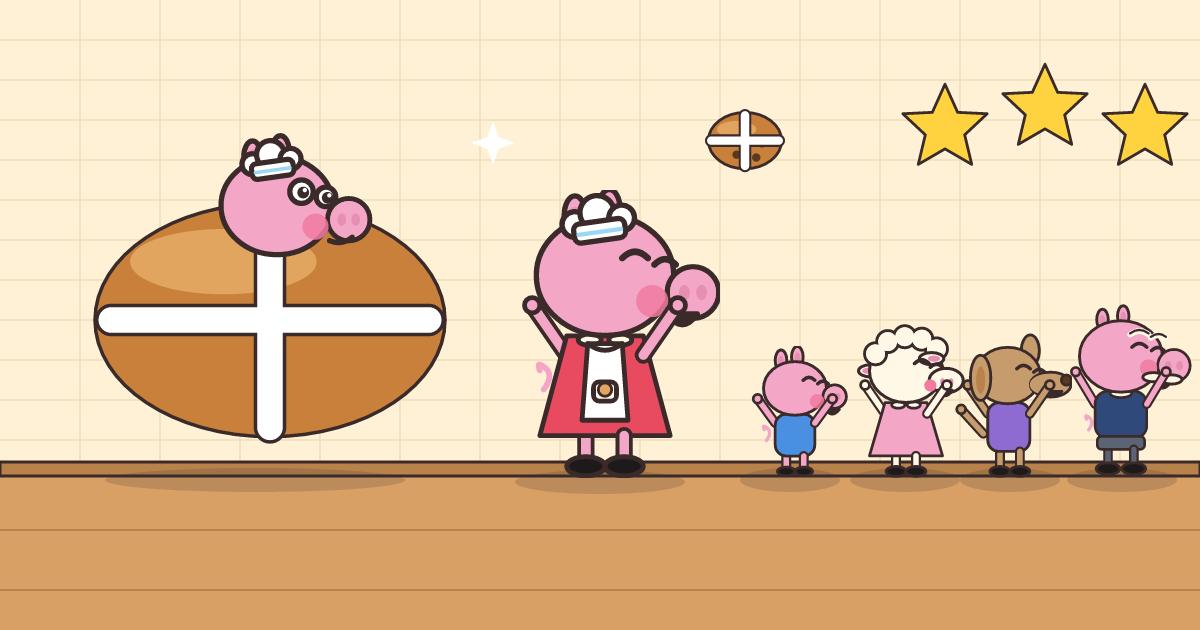
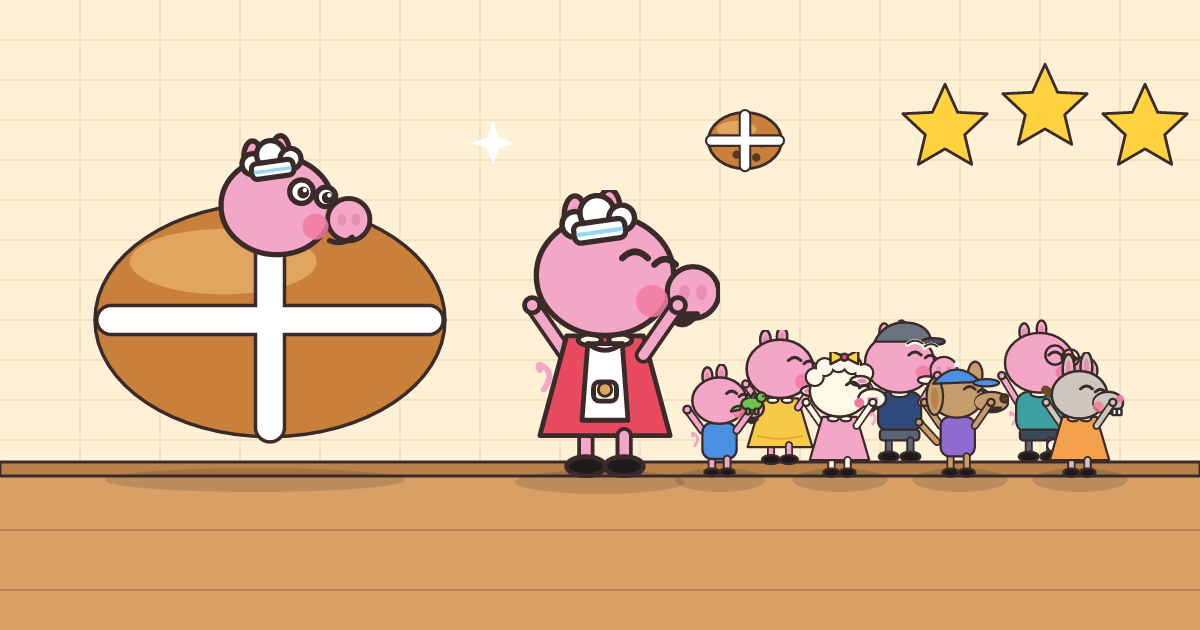
Add Daddy Pig, a happy-day celebration and countdown ticks (#16)
Daddy Pig joins day 7 and Bun Rush. A day where nobody leaves sad ends with bunting and a cheer. The last five seconds of a timed day tick softly, rising in pitch. The link preview now shows all seven customers.

Changed region(s): [[0.555, 0.4825, 1.0, 0.7841]]

diff --git a/game/src/scenes/KitchenScene.ts b/game/src/scenes/KitchenScene.ts
@@ -100,6 +100,7 @@ export class KitchenScene extends Phaser.Scene {
   private hintArrow!: Phaser.GameObjects.Image;
   private walkClock = 0;
   private peppaHappyUntil = 0;
+  private lastTick = -1;
   private peppaShadow!: Phaser.GameObjects.Ellipse;
   private peppaRoot!: Phaser.GameObjects.Container;
   private heldRoot!: Phaser.GameObjects.Container;
@@ -151,6 +152,7 @@ export class KitchenScene extends Phaser.Scene {
     this.ovenSlots = [];
     this.walkClock = 0;
     this.peppaHappyUntil = 0;
+    this.lastTick = -1;
 
     this.add.image(0, 0, 'kitchen-bg').setOrigin(0).setDepth(DEPTH.floor);
     this.drawShading();
@@ -264,7 +266,12 @@ export class KitchenScene extends Phaser.Scene {
       }
       case 'day-over': {
         sfx().setMusicRate(1);
-        const data: DayEndData = { dayId: this.day.config.id, pennies: event.pennies, stars: event.stars };
+        const data: DayEndData = {
+          dayId: this.day.config.id,
+          pennies: event.pennies,
+          stars: event.stars,
+          allHappy: this.day.state.strikes === 0 && this.day.state.served > 0,
+        };
         this.scene.launch(SceneKey.DayEnd, data);
         this.scene.pause();
         break;
@@ -313,6 +320,11 @@ export class KitchenScene extends Phaser.Scene {
     const end = this.day.config.end;
     if (s.remaining !== null) {
       const secs = Math.ceil(s.remaining);
+      // A soft tick for each of the last five seconds, rising in pitch.
+      if (secs <= 5 && secs > 0 && secs !== this.lastTick) {
+        this.lastTick = secs;
+        sfx().play('click', { rate: 1.4 + (5 - secs) * 0.12, volume: 0.5 });
+      }
       this.clockText.setText(`${Math.floor(secs / 60)}:${String(secs % 60).padStart(2, '0')}`);
       this.clockText.setColor(cssColor(secs <= 15 ? COLORS.bad : COLORS.text));
     } else if (end.type === 'customers') {

diff --git a/game/src/scenes/DayEndOverlay.ts b/game/src/scenes/DayEndOverlay.ts
@@ -100,6 +100,15 @@ export class DayEndOverlay extends Phaser.Scene {
       }
     }
 
+    // Nobody left sad: bunting across the card and a cheer.
+    if (data.allHappy && !rush) {
+      this.bunting(CY - 214);
+      this.add
+        .text(CX, CY + 62, 'Everyone went home happy!', { ...text, fontSize: '28px', fontStyle: 'bold', color: cssColor(COLORS.good) })
+        .setOrigin(0.5);
+      this.time.delayedCall(900, () => sfx().play('confetti', { rate: 1.2 }));
+    }
+
     const choices: Choice[] = [];
     if (nextDay && isDayUnlocked(progress, nextDay.id)) {
       const intro: DayIntroData = { dayId: nextDay.id };
@@ -119,6 +128,26 @@ export class DayEndOverlay extends Phaser.Scene {
       const x = CX - rowWidth / 2 + BUTTON_W / 2 + i * (BUTTON_W + BUTTON_GAP);
       new Button(this, x, CY + 140, choice.label, choice.go, { width: BUTTON_W });
     });
+  }
+
+  // A string of little flags in the party colours, swaying once into place.
+  private bunting(y: number): void {
+    const g = this.add.graphics();
+    const colours = [COLORS.peppaRed, COLORS.georgeBlue, COLORS.good, COLORS.bun];
+    const left = CX - 360;
+    const step = 40;
+    g.lineStyle(3, COLORS.outline, 1);
+    g.lineBetween(left, y, left + step * 18, y);
+    for (let i = 0; i < 18; i += 1) {
+      const x = left + i * step + 4;
+      g.fillStyle(colours[i % colours.length], 1);
+      g.fillTriangle(x, y, x + step - 8, y, x + (step - 8) / 2, y + 30);
+      g.strokeTriangle(x, y, x + step - 8, y, x + (step - 8) / 2, y + 30);
+    }
+    if (!reduceMotion()) {
+      g.setY(-40).setAlpha(0);
+      this.tweens.add({ targets: g, y: 0, alpha: 1, duration: 500, delay: 600, ease: 'Back.easeOut' });
+    }
   }
 
   // The kitchen is paused underneath; stop it first, then start the target.

diff --git a/game/src/core/dayConfig.test.ts b/game/src/core/dayConfig.test.ts
@@ -31,7 +31,7 @@ const SPEC: Array<{
   { id: 4, name: 'Choc Chip Day', end: { type: 'time', seconds: 90 }, maxQueue: 2, maxOrderSize: 2, customers: ['george', 'suzy', 'danny'], burn: 4, spawnGap: [5, 9], stars: [8, 12, 16] },
   { id: 5, name: "Grandpa's Big Order", end: { type: 'time', seconds: 100 }, maxQueue: 3, maxOrderSize: 3, customers: ['george', 'suzy', 'danny', 'grandpa'], burn: 4, spawnGap: [4, 8], stars: [10, 15, 20] },
   { id: 6, name: 'Rush Hour', end: { type: 'time', seconds: 90 }, maxQueue: 3, maxOrderSize: 3, customers: ['george', 'suzy', 'danny', 'grandpa', 'mummy', 'rebecca'], burn: 3.5, spawnGap: [2.5, 5], stars: [12, 18, 22] },
-  { id: 7, name: 'The Big Bun Party', end: { type: 'time', seconds: 120 }, maxQueue: 3, maxOrderSize: 3, customers: ['george', 'suzy', 'danny', 'grandpa', 'mummy', 'rebecca'], burn: 3, spawnGap: [3, 6], stars: [16, 24, 30] },
+  { id: 7, name: 'The Big Bun Party', end: { type: 'time', seconds: 120 }, maxQueue: 3, maxOrderSize: 3, customers: ['george', 'suzy', 'danny', 'grandpa', 'mummy', 'rebecca', 'daddy'], burn: 3, spawnGap: [3, 6], stars: [16, 24, 30] },
 ];
 
 describe('day config files', () => {

diff --git a/landing/src/data/customers.ts b/landing/src/data/customers.ts
@@ -1,10 +1,10 @@
 /**
- * The six customers as the landing page introduces them. Names and served
+ * The seven customers as the landing page introduces them. Names and served
  * lines are the spec's (section 5.5); the art paths are the files
  * oinkbuns-internal/tools/art/export.mjs copies into public/art/, and the
  * sizes are the SVG viewBoxes so the img elements reserve the right space.
  */
-export type LandingCustomerId = "george" | "suzy" | "danny" | "grandpa" | "mummy" | "rebecca";
+export type LandingCustomerId = "george" | "suzy" | "danny" | "grandpa" | "mummy" | "rebecca" | "daddy";
 
 export interface LandingCustomer {
   id: LandingCustomerId;
@@ -70,5 +70,14 @@ export const CUSTOMERS: LandingCustomer[] = [
     art: "/art/rebecca-idle.svg",
     width: 110,
     height: 140,
+  },
+  {
+    id: "daddy",
+    name: "Daddy Pig",
+    line: "Ho ho! Delicious!",
+    wants: "Two or three buns, on the party day.",
+    art: "/art/daddy-idle.svg",
+    width: 130,
+    height: 160,
   },
 ];

diff --git a/landing/src/components/customers.tsx b/landing/src/components/customers.tsx
@@ -9,6 +9,7 @@ const STYLE: Record<string, { bg: string; tilt: string; patience: number }> = {
   grandpa: { bg: "bg-grass", tilt: "rotate-1", patience: 3 },
   mummy: { bg: "bg-star", tilt: "-rotate-1", patience: 4 },
   rebecca: { bg: "bg-sky", tilt: "rotate-2", patience: 2 },
+  daddy: { bg: "bg-grass", tilt: "-rotate-2", patience: 4 },
 };
 
 function Hearts({ count }: { count: number }) {
@@ -36,7 +37,7 @@ export function Customers() {
         Meet the customers
       </h2>
       <p className="mb-10 text-center text-lg font-semibold">Everyone wants buns. Some want them faster.</p>
-      <ul className="mx-auto grid max-w-6xl grid-cols-1 gap-8 sm:grid-cols-2 lg:grid-cols-3">
+      <ul className="mx-auto grid max-w-6xl grid-cols-1 gap-8 sm:grid-cols-2 lg:grid-cols-4">
         {CUSTOMERS.map((c) => {
           const s = STYLE[c.id];
           return (

diff --git a/landing/src/components/days.tsx b/landing/src/components/days.tsx
@@ -9,7 +9,7 @@ const DAYS = [
   { id: 4, name: "Choc Chip Day", twist: "Some orders want chocolate chips.", art: "/art/bun-chip-hot-cross.svg" },
   { id: 5, name: "Grandpa's Big Order", twist: "Three in the queue, three buns at once!", art: "/art/bun-hot-cross.svg" },
   { id: 6, name: "Rush Hour", twist: "Everyone is hungry at once. Keep both ovens busy!", art: "/art/bun-chip-baked.svg" },
-  { id: 7, name: "The Big Bun Party", twist: "A long, busy day with everyone in town.", art: "/art/bun-chip-hot-cross.svg" },
+  { id: 7, name: "The Big Bun Party", twist: "Everyone in town, even Daddy Pig!", art: "/art/bun-chip-hot-cross.svg" },
 ];
 
 function StarRow() {

diff --git a/game/src/core/dayConfig.ts b/game/src/core/dayConfig.ts
@@ -8,7 +8,7 @@ import type { DayConfig } from './types';
  * every file explicitly. Zod 4 API: z.object, z.enum, z.literal,
  * z.discriminatedUnion, z.tuple, .nullable(), .refine().
  */
-const CustomerIdSchema = z.enum(['george', 'suzy', 'danny', 'grandpa', 'mummy', 'rebecca']);
+const CustomerIdSchema = z.enum(['george', 'suzy', 'danny', 'grandpa', 'mummy', 'rebecca', 'daddy']);
 
 const DayEndSchema = z.discriminatedUnion('type', [
   z.object({ type: z.literal('customers'), count: z.number().int().positive() }),

diff --git a/game/src/assets/manifest.ts b/game/src/assets/manifest.ts
@@ -60,6 +60,12 @@ export const ART: ArtAsset[] = [
   art('rebecca-walk2', 110, 140),
   art('rebecca-happy', 110, 140),
   art('rebecca-sad', 110, 140),
+  art('daddy-idle', 130, 160),
+  art('daddy-blink', 130, 160),
+  art('daddy-walk1', 130, 160),
+  art('daddy-walk2', 130, 160),
+  art('daddy-happy', 130, 160),
+  art('daddy-sad', 130, 160),
   art('kitchen-bg', 1280, 720),
   art('bowl', 130, 90),
   art('chip-jar', 90, 110),

diff --git a/game/src/core/types.ts b/game/src/core/types.ts
@@ -24,7 +24,7 @@ export type StationId =
   | 'counter-0'
   | 'counter-1'
   | 'counter-2';
-export type CustomerId = 'george' | 'suzy' | 'danny' | 'grandpa' | 'mummy' | 'rebecca';
+export type CustomerId = 'george' | 'suzy' | 'danny' | 'grandpa' | 'mummy' | 'rebecca' | 'daddy';
 export type PromptLabel =
   | 'take-dough'
   | 'add-chips'

diff --git a/game/src/entities/placeholders.ts b/game/src/entities/placeholders.ts
@@ -17,6 +17,7 @@ const BASE: Record<string, number> = {
   grandpa: 0xe7a9c4,
   mummy: 0xf7c948,
   rebecca: 0xcfc6bd,
+  daddy: 0x3aa0a0,
   'kitchen-bg': COLORS.wall,
   bowl: 0x8fc1e3,
   'chip-jar': 0x6b4a2b,

diff --git a/game/src/scenes/sceneData.ts b/game/src/scenes/sceneData.ts
@@ -12,6 +12,7 @@ export interface DayEndData {
   dayId: number;
   pennies: number;
   stars: Stars;
+  allHappy: boolean; // nobody left sad
 }
 export interface PauseData {
   dayId: number;
